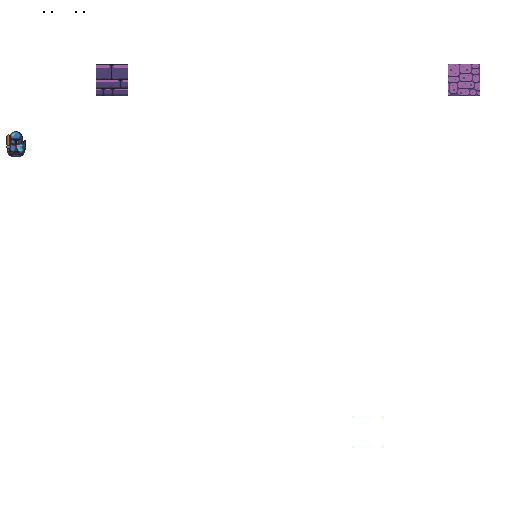
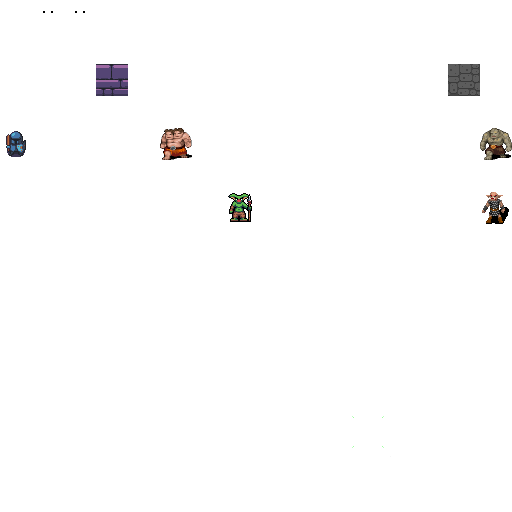
switches to ECS

diff --git a/dungeoncrawl/src/main.rs b/dungeoncrawl/src/main.rs
@@ -1,36 +1,49 @@
 mod map;
 mod map_builder;
-mod player;
 mod camera;
+mod components;
+mod spawner;
+mod systems;
 
 mod prelude {
     pub use bracket_lib::prelude::*;
+    pub use legion::*;
+    pub use legion::world::SubWorld;
+    pub use legion::systems::CommandBuffer;
     pub const SCREEN_WIDTH: i32 = 80;
     pub const SCREEN_HEIGHT: i32 = 50;
     pub const DISPLAY_WIDTH: i32 = SCREEN_WIDTH / 2;
     pub const DISPLAY_HEIGHT: i32 = SCREEN_HEIGHT / 2;
     pub use crate::map::*;
-    pub use crate::player::*;
     pub use crate::map_builder::*;
     pub use crate::camera::*;
+    pub use crate::components::*;
+    pub use crate::spawner::*;
+    pub use crate::systems::*;
 }
 
 use prelude::*;
 
 struct State {
-    map: Map,
-    player: Player,
-    camera: Camera
+    ecs: World,
+    resources: Resources,
+    systems: Schedule,
 }
 
 impl State {
     fn new() -> Self {
+        let mut ecs = World::default();
+        let mut resources = Resources::default();
         let mut rng = RandomNumberGenerator::new();
         let map_builder = MapBuilder::new(&mut rng);
+        spawn_player(&mut ecs, map_builder.player_start);
+
+        resources.insert(map_builder.map);
+        resources.insert(Camera::new(map_builder.player_start));
         Self {
-            map: map_builder.map,
-            player: Player::new(map_builder.player_start),
-            camera: Camera::new(map_builder.player_start)
+            ecs,
+            resources,
+            systems: build_scheduler()
         }
     }
 }
@@ -41,9 +54,9 @@ impl GameState for State {
         ctx.cls();
         ctx.set_active_console(1);
         ctx.cls();
-        self.player.update(ctx, &self.map, &mut self.camera);
-        self.map.render(ctx, &self.camera);
-        self.player.render(ctx, &self.camera);
+        self.resources.insert(ctx.key);
+        self.systems.execute(&mut self.ecs, &mut self.resources);
+        render_draw_buffer(ctx).expect("Render Error");
     }
 }
 

diff --git a/dungeoncrawl/src/map.rs b/dungeoncrawl/src/map.rs
@@ -39,35 +39,4 @@ impl Map {
             Some(map_idx(point.x, point.y))
         }
     }
-
-    pub fn render(&self, ctx: &mut BTerm, camera: &Camera) {
-        ctx.set_active_console(0);
-        for y in camera.top_y..camera.bottom_y {
-            for x in camera.left_x..camera.right_x {
-                if self.in_bounds(Point::new(x, y)) {
-                    let idx = map_idx(x, y);
-                    match self.tiles[idx] {
-                        TileType::Floor => {
-                            ctx.set(
-                                x - camera.left_x, 
-                                y - camera.top_y, 
-                                WHITE, 
-                                BLACK, 
-                                to_cp437('.')
-                            );
-                        }
-                        TileType::Wall => {
-                            ctx.set(
-                                x - camera.left_x, 
-                                y - camera.top_y, 
-                                WHITE, 
-                                BLACK, 
-                                to_cp437('#')
-                            );
-                        }
-                    }    
-                }
-            }
-        }
-    }
 }

diff --git a/dungeoncrawl/src/systems/player_input.rs b/dungeoncrawl/src/systems/player_input.rs
@@ -1,0 +1,34 @@
+use crate::prelude::*;
+
+#[system]
+#[write_component(Point)]
+#[read_component(Player)]
+pub fn player_input(
+    ecs: &mut SubWorld, 
+    #[resource] map: &Map, 
+    #[resource] key: &Option<VirtualKeyCode>,
+    #[resource] camera: &mut Camera
+) {
+    if let Some(key) = key {
+        let delta = match key {
+            VirtualKeyCode::Left => Point::new(-1, 0),
+            VirtualKeyCode::Right => Point::new(1, 0),
+            VirtualKeyCode::Up => Point::new(0, -1),
+            VirtualKeyCode::Down => Point::new(0, 1),
+            _ => Point::new(0, 0),
+        };
+
+        // did we move?
+        if delta.x != 0 || delta.y != 0 {
+            let mut players = <&mut Point>::query()
+                .filter(component::<Player>());
+            players.iter_mut(ecs).for_each( |pos| {
+                let destination = *pos + delta;
+                if map.can_enter_tile(destination) {
+                    *pos = destination;
+                    camera.on_player_move(destination);
+                }
+            });
+        }
+    }
+}

diff --git a/dungeoncrawl/src/systems/map_render.rs b/dungeoncrawl/src/systems/map_render.rs
@@ -1,0 +1,29 @@
+use crate::prelude::*;
+
+#[system]
+pub fn map_render(
+    #[resource] map: &Map,
+    #[resource] camera: &Camera
+) {
+    let mut draw_batch = DrawBatch::new();
+    draw_batch.target(0);
+    for y in camera.top_y ..= camera.bottom_y {
+        for x in camera.left_x ..= camera.right_x {
+            let pt = Point::new(x, y);
+            let offset = Point::new(camera.left_x, camera.top_y);
+            if map.in_bounds(pt) {
+                let idx = map_idx(x, y);
+                let glyph = match map.tiles[idx] {
+                    TileType::Floor => to_cp437('.'),
+                    TileType::Wall => to_cp437('#'),
+                };
+                draw_batch.set(
+                    pt - offset,
+                    ColorPair::new(WHITE, BLACK),
+                    glyph
+                );
+            }
+        }
+    }
+    draw_batch.submit(0).expect("Batch error");
+}

diff --git a/dungeoncrawl/src/systems/entity_render.rs b/dungeoncrawl/src/systems/entity_render.rs
@@ -1,0 +1,24 @@
+use crate::prelude::*;
+
+#[system]
+#[read_component(Point)]
+#[read_component(Render)]
+pub fn entity_render(
+    ecs: &mut SubWorld, 
+    #[resource] camera: &mut Camera
+) { 
+    let mut draw_batch = DrawBatch::new();
+    draw_batch.target(1);
+    let offset = Point::new(camera.left_x, camera.top_y);
+
+    <(&Point, &Render)>::query()
+        .iter(ecs)
+        .for_each(|(pos, render)| {
+            draw_batch.set(
+                *pos - offset,
+                render.color,
+                render.glyph
+            );
+        });
+    draw_batch.submit(5000).expect("entity batch error");
+}

diff --git a/dungeoncrawl/src/systems/mod.rs b/dungeoncrawl/src/systems/mod.rs
@@ -1,0 +1,13 @@
+mod player_input;
+mod map_render;
+mod entity_render;
+
+use crate::prelude::*;
+
+pub fn build_scheduler() -> Schedule {
+    Schedule::builder()
+        .add_system(player_input::player_input_system())
+        .add_system(map_render::map_render_system())
+        .add_system(entity_render::entity_render_system())
+        .build()
+}

diff --git a/dungeoncrawl/src/spawner.rs b/dungeoncrawl/src/spawner.rs
@@ -1,0 +1,14 @@
+use crate::prelude::*;
+
+pub fn spawn_player(ecs : &mut World, pos : Point) {
+    ecs.push(
+        (
+            Player,
+            pos,
+            Render{
+                color: ColorPair::new(WHITE, BLACK),
+                glyph : to_cp437('@')
+            }
+        )
+    );
+}

diff --git a/dungeoncrawl/src/components.rs b/dungeoncrawl/src/components.rs
@@ -1,0 +1,10 @@
+pub use crate::prelude::*;
+
+#[derive(Clone, Copy, Debug, PartialEq)]
+pub struct Render {
+    pub color : ColorPair,
+    pub glyph : FontCharType
+}
+
+#[derive(Clone, Copy, Debug, PartialEq)]
+pub struct Player;
